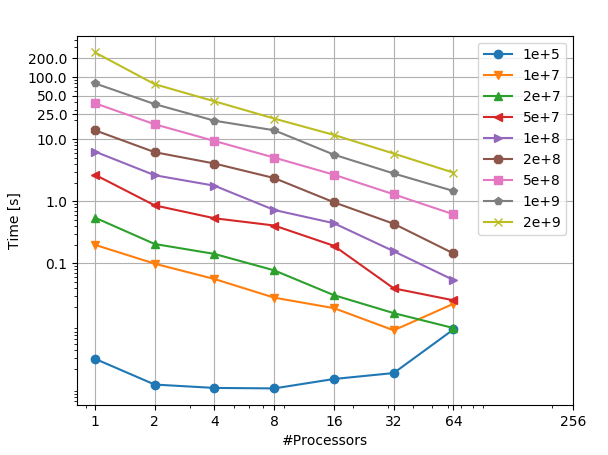
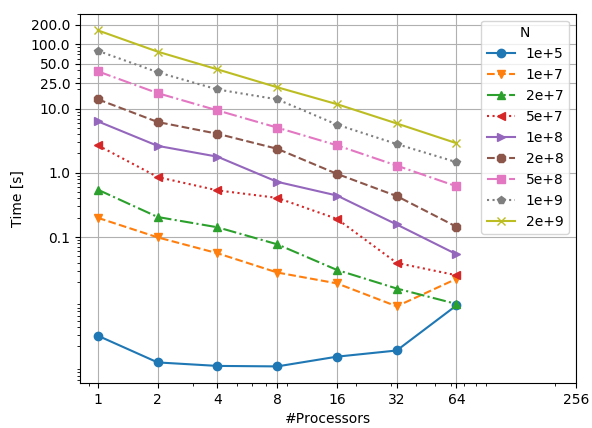
clean up repo and README

Changed region(s): [[0.0, 0.0304, 1.0, 1.0]]

diff --git a/plots/plot_strong.py b/plots/plot_strong.py
@@ -2,6 +2,7 @@ import matplotlib.pyplot as plt
 from extract_data import *
 import matplotlib
 
+# convert a number into a string of its scientific notation
 def sc_notation(n):
     exp = 0
     while(n >= 10):
@@ -11,18 +12,19 @@ def sc_notation(n):
         n = int(n)
     return str(n) + "e+" + str(exp)
 
-# Strong scaling
-ns, ps, times = get_data("./data_strong.txt") # get data from the batch result file
-markers = ['o', 'v', '^', '<', '>', '8', 's', 'p', 'x']
+# get data from the batch output file
+ns, ps, times = get_data("./data_strong.txt")
+ns = sorted(list(set(ns)))
 
+# markers and linestlyes
+markers = ['o', 'v', '^', '<', '>', '8', 's', 'p', 'x']
+lineStyles = ['-', '--', '-.', ':']
 fig, ax = plt.subplots()
 
 # plot the data
 for i in range(len(ns)):
-    plt.loglog(ps[i], times[i], marker=markers[i])
+    plt.loglog(ps[i], times[i], marker=markers[i%len(markers)], lineStyle=lineStyles[i%len(lineStyles)])
     #print("n = " + str(ns[i]) + " ps: " + str(ps[i]) + " ts: " + str(times[i]))
-    print("n = " + str(ns[i]))
-print("{:E}".format(1000000000000000))
 
 # set better labels for x and y axis
 ax.set_xscale('log')
@@ -32,8 +34,9 @@ ax.set_yscale('log')
 ax.set_yticks([0.1, 1, 10, 25, 50, 100, 200])
 ax.get_yaxis().set_major_formatter(matplotlib.ticker.ScalarFormatter())
 
+# set grid and legend
 plt.grid(True)
 plt.xlabel('#Processors')
 plt.ylabel('Time [s]')
-plt.legend([sc_notation(elem) for elem in ns], loc='upper right', ncol=1)
+plt.legend([sc_notation(elem) for elem in ns], loc='upper right', ncol=1, title='N')
 plt.show()

diff --git a/plots/plot_weak.py b/plots/plot_weak.py
@@ -1,0 +1,50 @@
+import matplotlib.pyplot as plt
+from extract_data import *
+import matplotlib
+
+def sc_notation(n):
+    exp = 0
+    while(n >= 10):
+        n  = n / 10
+        exp = exp + 1
+    if n % 1 == 0:
+        n = int(n)
+    return str(n) + "e+" + str(exp)
+
+# get the number of problems per process
+def get_ppps(ps, ns):
+    ppps = []
+    flat_ps = [item for sublist in ps for item in sublist]
+    for i in range(len(ns)):
+        ppps.append(ns[i]/flat_ps[i])
+        #print("n: " + str(ns[i]) + " flat_p: " + str(flat_ps[i]))
+    return sorted(list(set(ppps)))
+
+
+
+ns, ps, times = get_data("./data_weak.txt", True) # get data from the batch result file
+ppps = get_ppps(ps, ns)
+
+# markers and linestyles
+markers = ['o', 'v', 's', '<', '>', '8', 's', 'p', 'x']
+lineStyles = ['-', '--', '-.', ':']
+fig, ax = plt.subplots()
+
+# plot the data
+for i in range(len(ppps)):
+    plt.loglog(ps[i], times[i], marker=markers[i%len(markers)], lineStyle=lineStyles[i%len(lineStyles)])
+    #print("n = " + str(ns[i]) + " ps: " + str(ps[i]) + " ts: " + str(times[i]))
+
+# set better labels for x and y axis
+ax.set_xscale('log')
+ax.set_xticks([1, 2, 4, 8, 16, 32, 64, 256])
+ax.get_xaxis().set_major_formatter(matplotlib.ticker.ScalarFormatter())
+ax.set_yscale('log')
+ax.set_yticks([0.1, 1, 10, 100])
+ax.get_yaxis().set_major_formatter(matplotlib.ticker.ScalarFormatter())
+
+plt.grid(True)
+plt.xlabel('#Processors')
+plt.ylabel('Time [s]')
+plt.legend([sc_notation(elem) for elem in ppps], loc='upper right', ncol=1, title='N')
+plt.show()

diff --git a/plots/extract_data.py b/plots/extract_data.py
@@ -1,4 +1,5 @@
-def get_data(path):
+# extract the data from the batch output file
+def get_data(path, weak=False):
 
     ns = []
     ps = []
@@ -30,15 +31,19 @@ def get_data(path):
             ns.append(int(n))
             ps.append(int(p))
             ts.append(float(t))
-    elems_per_n = int(len(ts) / len(set(ns)))
-    print(elems_per_n)
-    #print(len(set(ns)))
-    #print(len(ts))
+    if weak:
+        # get the number of problems per process
+        ppps = []
+        for i in range(len(ns)):
+            ppps.append(ns[i]/ps[i])
+            #print("n: " + str(ns[i]) + " flat_p: " + str(flat_ps[i]))
+        ppps = sorted(list(set(ppps)))
+        elems_per_n = int(int(len(ts))/len(ppps))
+
+    else:
+        elems_per_n = int(len(ts) / len(set(ns)))
     ps_groups = [ps[i:i + elems_per_n] for i in range(0, len(ps), elems_per_n)]
     ts_groups = [ts[i:i + elems_per_n] for i in range(0, len(ts), elems_per_n)]
-    #print(ts_groups)
-    print(set(ns))
-
-    return sorted(list(set(ns))), ps_groups, ts_groups
+    return ns, ps_groups, ts_groups
 
 #get_data("./data_strong.txt")

diff --git a/README.md b/README.md
@@ -1,11 +1,30 @@
-This is a parallel implementation of the sieve of Eratosthenes using MPI
+### running the code locally
 
-### running the code
+* To compile the code:
+_mpicc erato_parallel.cpp -lm -lstdc++ -o erato_
 
-* To compile the code: mpicc erato_parallel.cpp -lm -lstdc++ -o erato
+* To run the code:
+_mpirun -np < p > ./erato < n > < DEBUG >_
 
-* To run the code: mpirun -np < p > ./erato < n > < DEBUG >
+    - _n_ is the value up to which we execute the sieve
+    - _p_ is the number of threads to allocate
+    - _DEBUG_: If set to 1, displays the status of the program and slows it down (Optional, default: 0).
+	
+	
+### running the code on the bellatrix cluster
 
-    - n is the value up to which we execute the sieve
-    - p is the number of threads to allocate
-    - DEBUG: If set to 1, displays the status of the program and slows it down (Optional, default: 0).
+* loading modules:
+_module load gcc_
+_module load mvapich2_
+
+* compiling the code:
+_mpicc erato_parallel.cpp -lm -lstdc++ -o erato_
+
+* running the code:
+_srun -n < p > ./erato < n >_
+
+### Scripts
+In the _scripts_ folder there are two bash scripts that are designed to run the sieve with different inputs and # of cores. One script performs a strong scaling and the other one a weak scaling.
+
+### Plots
+The results of the strong scaling and the weak scaling are stored in a text file in the _plots_ folder. In the same folder there are two python scripts to plot the values and store the resulting plots as two PNG files.
